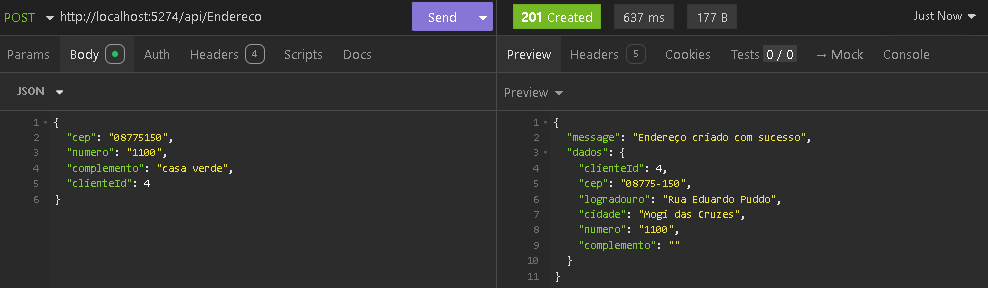
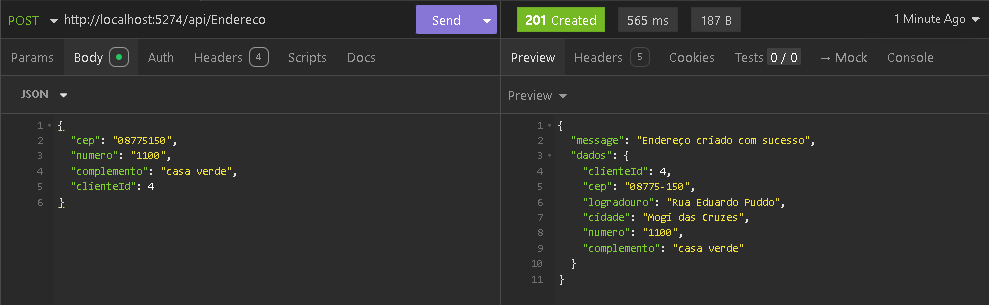
ajustante mapping e novo print

diff --git a/Mappings/MappingProfile.cs b/Mappings/MappingProfile.cs
@@ -16,11 +16,19 @@ namespace ClienteApi.Mappings
 
 
             CreateMap<Endereco, EnderecoUpdateCompletoDTO>().ReverseMap().ForAllMembers(opt => opt.Condition((src, dest, srcMember) => srcMember != null));
+
             CreateMap<Endereco, EnderecoUpdateParcialDTO>().ReverseMap().ForAllMembers(opt => opt.Condition((src, dest, srcMember) => srcMember != null));
+
             CreateMap<Endereco, EnderecoDTO>().ReverseMap();
+
             CreateMap<Endereco, EnderecoCreateDTO>().ReverseMap();
+
             CreateMap<ViaCepResponse, Endereco>()
-            .ForMember(dest => dest.Cidade, opt => opt.MapFrom(src => src.Localidade)).ReverseMap();
+    .ForMember(dest => dest.Cidade, opt => opt.MapFrom(src => src.Localidade))
+    .ForMember(dest => dest.Complemento, opt => opt.Ignore())
+    .ReverseMap()
+    .ForAllMembers(opt => opt.Condition((src, dest, srcMember) => srcMember != null));
+    
             CreateMap<ViaCepResponse, EnderecoDTO>()
     .ForMember(dest => dest.Cidade, opt => opt.MapFrom(src => src.Localidade)).ReverseMap();
 
